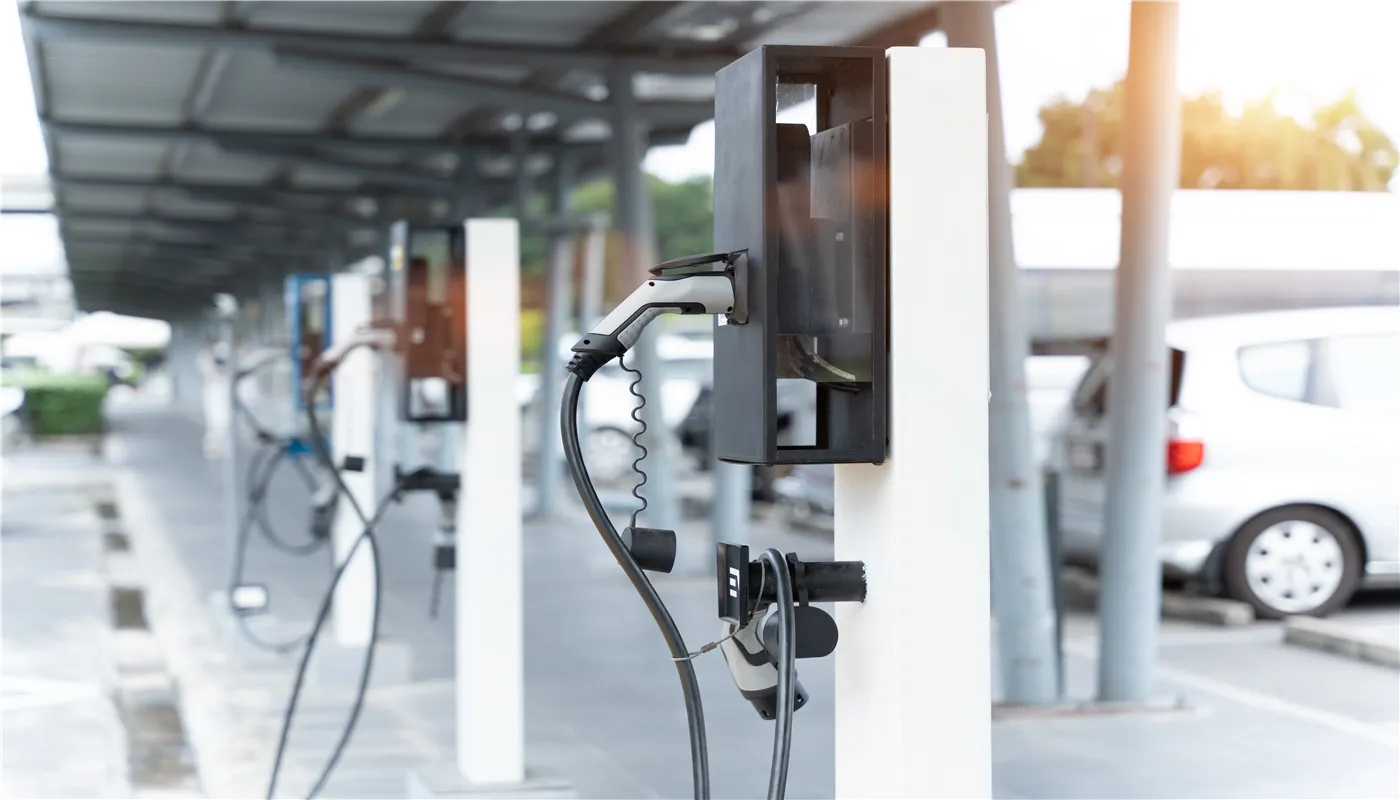
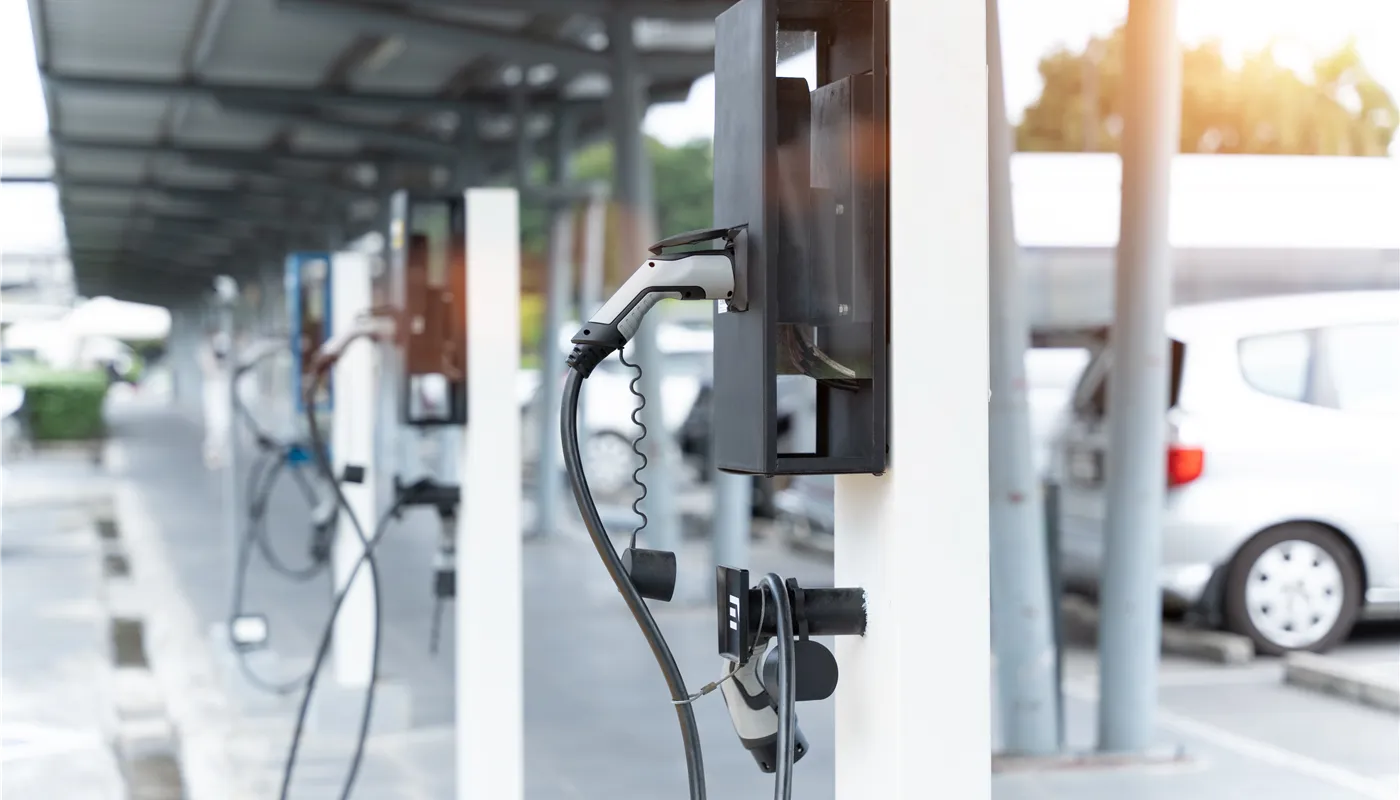
About page gallery, fix power ratings, broaden Road Ahead, UI cleanup
- Added 72 optimized WebP gallery images with lazy loading (IntersectionObserver)
- Fixed EV charger power ratings: 3.4kW to 3.3kW across Lite, Go, City
- Reduced whitespace above Innovation section on About page
- Broadened Road Ahead milestones to be more strategic, less technical
- Removed About from mobile nav (stays in footer)
- Fixed PowerPod Go casing in footer
- Updated homepage EV charger tile image

diff --git a/app/components/aboutus/GallerySection.tsx b/app/components/aboutus/GallerySection.tsx
@@ -1,80 +1,73 @@
 "use client";
 
 import Image from "next/image";
-import MotionWrapper from "../common/MotionWrapper";
+import { useRef, useState, useEffect } from "react";
 
-const galleryImages = [
-  {
-    src: "/about/gallery-1.webp",
-    alt: "RIOD lab and development workspace",
-    span: "col-span-1 row-span-1",
-  },
-  {
-    src: "/about/gallery-2.webp",
-    alt: "Product testing and quality assurance",
-    span: "col-span-1 row-span-1 md:col-span-1 md:row-span-2",
-  },
-  {
-    src: "/about/gallery-3.webp",
-    alt: "Hardware manufacturing and assembly",
-    span: "col-span-1 row-span-1",
-  },
-  {
-    src: "/about/gallery-4.webp",
-    alt: "RIOD development center overview",
-    span: "col-span-1 row-span-1 md:col-span-2 md:row-span-1",
-  },
-  {
-    src: "/about/gallery-5.webp",
-    alt: "Team collaboration and engineering discussions",
-    span: "col-span-1 row-span-1",
-  },
-  {
-    src: "/about/gallery-6.webp",
-    alt: "EV charger deployment and field testing",
-    span: "col-span-1 row-span-1",
-  },
-];
+const TOTAL_IMAGES = 72;
+
+const galleryImages = Array.from({ length: TOTAL_IMAGES }, (_, i) => ({
+  src: `/about/gallery/gallery-${i + 1}.webp`,
+  alt: `RIOD team and workspace ${i + 1}`,
+}));
+
+function LazyImage({ src, alt }: { src: string; alt: string }) {
+  const ref = useRef<HTMLDivElement>(null);
+  const [visible, setVisible] = useState(false);
+
+  useEffect(() => {
+    const el = ref.current;
+    if (!el) return;
+    const observer = new IntersectionObserver(
+      ([entry]) => {
+        if (entry.isIntersecting) {
+          setVisible(true);
+          observer.unobserve(el);
+        }
+      },
+      { rootMargin: "200px" }
+    );
+    observer.observe(el);
+    return () => observer.disconnect();
+  }, []);
+
+  return (
+    <div
+      ref={ref}
+      className="relative w-full aspect-[7/5] rounded-xl overflow-hidden bg-[#e8e8e8] group"
+    >
+      {visible && (
+        <Image
+          src={src}
+          alt={alt}
+          fill
+          className="object-cover group-hover:scale-105 transition-transform duration-700"
+          sizes="(max-width: 640px) 100vw, (max-width: 1024px) 50vw, 33vw"
+          loading="lazy"
+        />
+      )}
+      <div className="absolute inset-0 bg-black/10 group-hover:bg-black/0 transition-colors duration-500" />
+    </div>
+  );
+}
 
 export default function GallerySection() {
   return (
     <section className="py-16 md:py-[6.8rem] bg-[#f6f6f6]">
       <div className="w-[90%] max-w-[1400px] mx-auto">
-        <MotionWrapper>
-          <p className="text-sm font-medium tracking-[0.2em] uppercase text-[#1b1b1b]/50 font-inter mb-3">
-            Inside RIOD
-          </p>
-          <h2 className="text-3xl md:text-4xl lg:text-[2.8rem] font-medium text-[#1b1b1b] font-inter leading-tight mb-4">
-            Where It All Happens
-          </h2>
-          <p className="para-text text-[#626262] max-w-[560px] mb-12 md:mb-16">
-            A look inside our development centers and the team that builds the
-            systems our partners rely on.
-          </p>
-        </MotionWrapper>
+        <p className="text-sm font-medium tracking-[0.2em] uppercase text-[#1b1b1b]/50 font-inter mb-3">
+          Inside RIOD
+        </p>
+        <h2 className="text-3xl md:text-4xl lg:text-[2.8rem] font-medium text-[#1b1b1b] font-inter leading-tight mb-4">
+          Where It All Happens
+        </h2>
+        <p className="para-text text-[#626262] max-w-[560px] mb-12 md:mb-16">
+          A look inside our development centers and the team that builds the
+          systems our partners rely on.
+        </p>
 
-        {/* Masonry-style grid */}
-        <div className="grid grid-cols-1 sm:grid-cols-2 md:grid-cols-3 gap-4 md:gap-5 auto-rows-[250px] md:auto-rows-[280px]">
-          {galleryImages.map((image, index) => (
-            <MotionWrapper
-              key={image.src}
-              delay={index * 0.08}
-              className={image.span}
-            >
-              <div className="relative w-full h-full rounded-xl overflow-hidden group">
-                <Image
-                  src={image.src}
-                  alt={image.alt}
-                  fill
-                  className="object-cover group-hover:scale-105 transition-transform duration-700"
-                  sizes="(max-width: 640px) 100vw, (max-width: 768px) 50vw, 33vw"
-                />
-                <div className="absolute inset-0 bg-gradient-to-t from-black/40 via-transparent to-transparent opacity-0 group-hover:opacity-100 transition-opacity duration-500" />
-                <p className="absolute bottom-4 left-4 text-white text-sm font-inter opacity-0 group-hover:opacity-100 transition-opacity duration-500">
-                  {image.alt}
-                </p>
-              </div>
-            </MotionWrapper>
+        <div className="grid grid-cols-1 sm:grid-cols-2 lg:grid-cols-3 gap-4 md:gap-5">
+          {galleryImages.map((image) => (
+            <LazyImage key={image.src} src={image.src} alt={image.alt} />
           ))}
         </div>
       </div>

diff --git a/app/components/aboutus/FutureSection.tsx b/app/components/aboutus/FutureSection.tsx
@@ -9,19 +9,19 @@ const milestones = [
     icon: Zap,
     title: "Develop Technology IPs for Growing EV & Energy Needs",
     description:
-      "Building proprietary technology across charging hardware, energy management, and grid intelligence. Every product we ship creates IP that compounds over time.",
+      "We are building proprietary technology across charging, energy management, and connected infrastructure. Every product we ship adds to a growing portfolio of intellectual property that strengthens our platform.",
   },
   {
     icon: Globe,
-    title: "Take Indian Engineering Global",
+    title: "Bring Indian Innovation to Global Markets",
     description:
-      "Expanding into Europe, Middle East, and Asia-Pacific. The infrastructure we have built for Indian conditions is designed to work everywhere.",
+      "What we build for Indian conditions, extreme heat, unstable grids, diverse vehicles, works everywhere. We are taking that engineering advantage into new markets and partnerships worldwide.",
   },
   {
     icon: Building2,
-    title: "Shape the Energy Transition",
+    title: "Enable the Broader Energy Transition",
     description:
-      "EV charging is just the starting point. We are building the technology layer that connects vehicles, buildings, and the grid into one intelligent energy network.",
+      "EV charging is where we started. The opportunity ahead is much larger: connecting vehicles, buildings, and energy systems into a single intelligent layer that makes clean energy practical at scale.",
   },
 ];
 

diff --git a/app/(route)/products/ev-chargers/page.client.tsx b/app/(route)/products/ev-chargers/page.client.tsx
@@ -12,7 +12,7 @@ import ChargingFAQ from "@/app/components/ev-chargers/ChargingFAQ";
 const privateChargers = [
   {
     name: "RIOD AC PowerPod Lite",
-    power: "3.4 kW",
+    power: "3.3 kW",
     description:
       "Single-phase home charger for overnight charging. Smart scheduling, energy monitoring, and Wi-Fi connectivity.",
     image: "/products/powerpod.png",
@@ -22,7 +22,7 @@ const privateChargers = [
     name: "RIOD AC PowerPod Lite",
     power: "7.4 kW",
     description:
-      "Fast single-phase home charger. Cuts charging time in half compared to 3.4kW. Ideal for daily commuters.",
+      "Fast single-phase home charger. Cuts charging time in half compared to 3.3kW. Ideal for daily commuters.",
     image: "/products/powerpod.png",
     shopUrl: "/products/ev-chargers/powerpod",
   },
@@ -40,7 +40,7 @@ const privateChargers = [
 const edgeChargers = [
   {
     name: "RIOD AC PowerPod Go",
-    power: "3.4 kW",
+    power: "3.3 kW",
     description:
       "Compact shared charger with RFID access, 4G connectivity, and OCPP cloud management for apartments and offices.",
     image: "/products/powerpod.png",
@@ -67,7 +67,7 @@ const edgeChargers = [
 const cityChargers = [
   {
     name: "RIOD AC PowerPod City",
-    power: "3.4 kW",
+    power: "3.3 kW",
     description:
       "Dual-gun public charger with RFID access, 4G connectivity, and OCPP cloud management for apartments and offices.",
     image: "/products/powerpod-city.png",

diff --git a/app/components/header/header.tsx b/app/components/header/header.tsx
@@ -358,15 +358,6 @@ const Header = () => {
 
           {/* MOBILE MENU ITEMS */}
           <nav className="flex flex-col">
-            {/* About */}
-            <Link
-              href="/about"
-              onClick={toggleMenu}
-              className="text-white text-lg font-medium py-6 pl-7 border-b border-white/10"
-            >
-              About
-            </Link>
-
             {/* Products (Accordion) */}
             <div className="border-b border-white/10">
               <button

diff --git a/app/components/footer/FooterSection.tsx b/app/components/footer/FooterSection.tsx
@@ -7,7 +7,7 @@ import NewsletterSignup from "../common/NewsletterSignup";
 
 const productLinks = [
   { label: "AC PowerPod Lite", href: "/products/ev-chargers/powerpod" },
-  { label: "AC Powerpod Go", href: "/products/ev-chargers/powerpod-go" },
+  { label: "AC PowerPod Go", href: "/products/ev-chargers/powerpod-go" },
   { label: "AC PowerPod City", href: "/products/ev-chargers/powerpod-city" },
   { label: "Store", href: "/store" },
 ];

diff --git a/app/components/aboutus/InnovationSection.tsx b/app/components/aboutus/InnovationSection.tsx
@@ -51,7 +51,7 @@ const pillars = [
 
 export default function InnovationSection() {
   return (
-    <section className="py-16 md:py-[6.8rem] bg-white">
+    <section className="pt-8 md:pt-12 pb-16 md:pb-[6.8rem] bg-white">
       <div className="w-[90%] max-w-[1400px] mx-auto">
         <MotionWrapper>
           <p className="text-sm font-medium tracking-[0.2em] uppercase text-[#1b1b1b]/50 font-inter mb-3">
